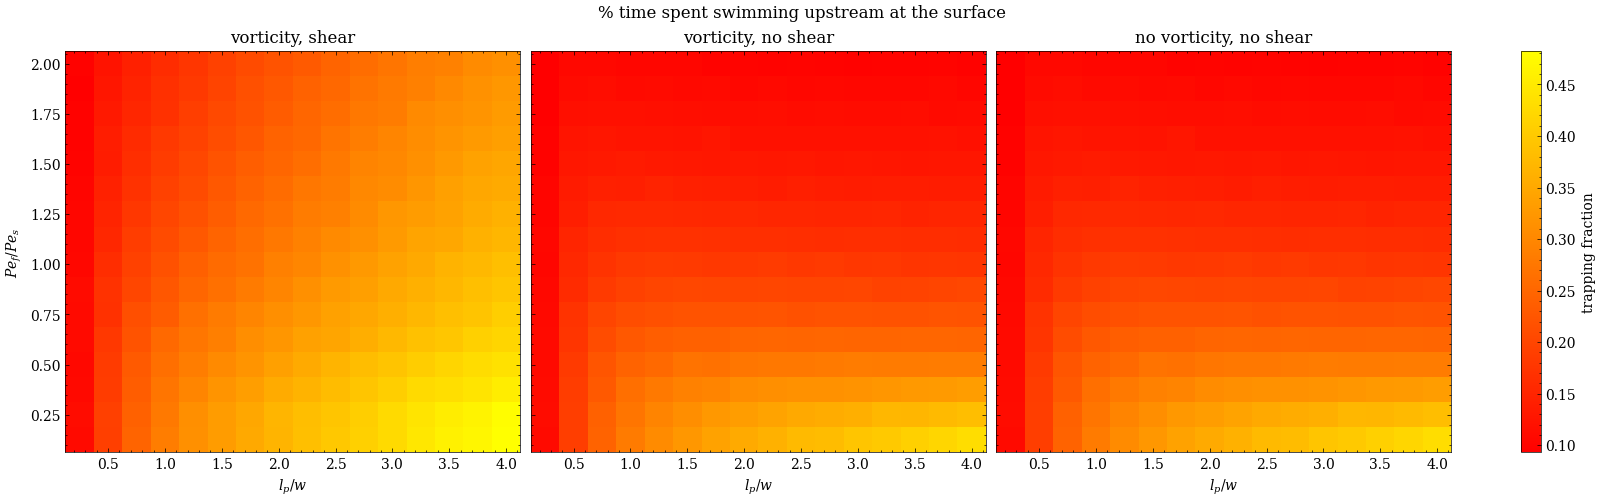
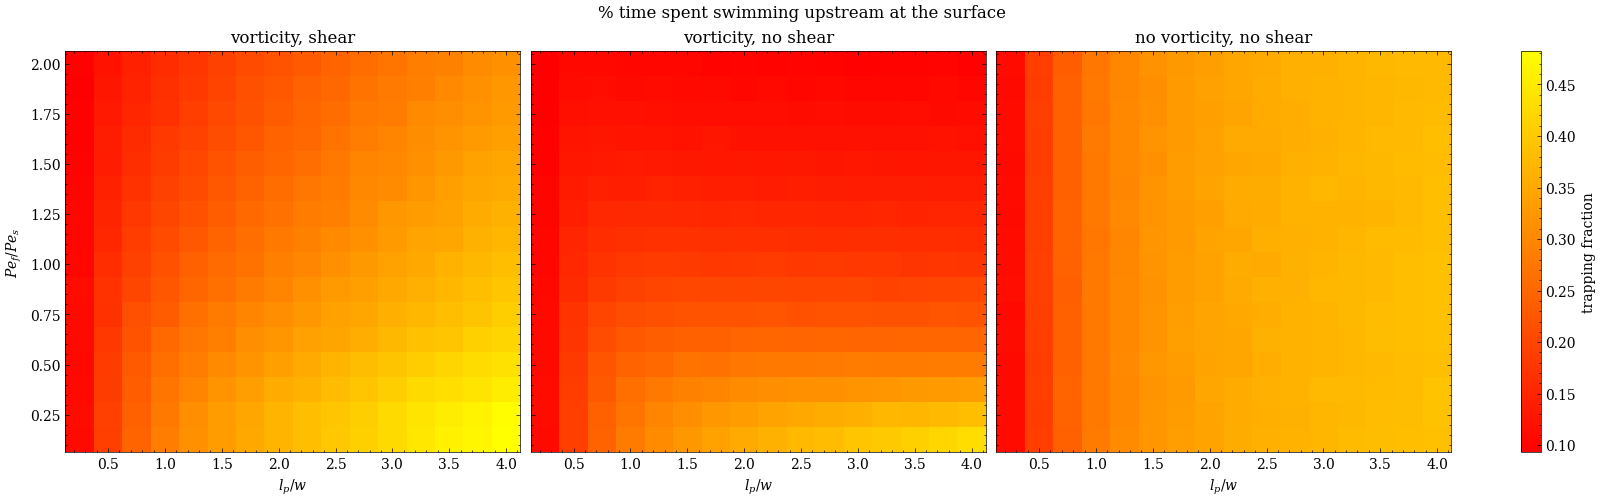
sync

Changed region(s): [[0.625, 0.0898, 0.9062, 0.8084], [0.875, 0.8383, 0.9062, 0.8982]]

diff --git a/abp_analysis.py b/abp_analysis.py
@@ -34,7 +34,7 @@ def phase_diagram(filename):
     cmap = colors.ListedColormap(colours)
     vmin = np.min(A)
     vmax = np.max(A)
-    boundaries = np.array([vmin, 1.2, 1.8, vmax])
+    boundaries = np.array([np.round(vmin, 2), 1.2, 1.8, np.round(vmax, 2)])
 
     # Plot MSD scaling exponent
     fig = plt.figure(figsize=[8, 6])
@@ -57,21 +57,14 @@ def phase_diagram(filename):
     plt.xlabel("$l_p/w$")
     plt.ylabel("$Pe_f/Pe_s$")
 
-    # Plot trapping fraction    
-    fig = plt.figure(figsize=[8, 6])
-    plt.title("% time spent swimming upstream at the surface")
-    plt.pcolormesh(X, Y, TF, cmap='viridis', shading='auto')
-    plt.colorbar(label='trapping fraction')
-    plt.xlabel("$l_p/w$")
-    plt.ylabel("$Pe_f/Pe_s$")
+    # Normalise divergent colormap for variance
+    norm_var = colors.TwoSlopeNorm(vmin=np.nanmin(B), vcenter=1, vmax=np.nanmax(B))
 
     # Plot variance of displacement
     fig = plt.figure(figsize=[8, 6])
     plt.title(r"Var($\Delta x$) scaling exponent")
-    plt.pcolormesh(X, Y, B, cmap=cmap, shading='auto')
-    cbar = plt.colorbar(label=r'$\beta$', boundaries=boundaries, spacing='proportional')
-    cbar.set_ticks([1, 1.2, 1.8, 2])
-    cbar.set_ticklabels([1, 1.2, 1.8, 2])
+    plt.pcolormesh(X, Y, B, cmap='bwr', shading='auto', norm=norm_var)
+    cbar = plt.colorbar(label=r'$\beta$', spacing='proportional')
     plt.xlabel("$l_p/w$")
     plt.ylabel("$Pe_f/Pe_s$")
 
@@ -212,7 +205,7 @@ def pd3_comparison(filename1, filename2, filename3):
     size_y3 = len(nPf_Ps3)
     A3 = a3.reshape(size_x3, size_y3).T
     B3 = b3.reshape(size_x3, size_y3).T
-    TF3 = trap_frac2.reshape(size_x3, size_y3).T
+    TF3 = trap_frac3.reshape(size_x3, size_y3).T
     VX3 = mean_vx3.reshape(size_x3, size_y3).T
     X3, Y3 = np.meshgrid(nlp_w3, nPf_Ps3)
 
@@ -250,18 +243,18 @@ def pd3_comparison(filename1, filename2, filename3):
     # Normalise divergent colormap for variance
     vmin = min(np.nanmin(B1), np.nanmin(B2), np.nanmin(B3))
     vmax = max(np.nanmax(B1), np.nanmax(B2), np.nanmax(B3))
-    norm_vx = colors.TwoSlopeNorm(vmin=vmin, vcenter=1, vmax=vmax)
+    norm_var = colors.TwoSlopeNorm(vmin=vmin, vcenter=1, vmax=vmax)
 
     # Plot comparison of variance scaling exponents    
     fig, axes = plt.subplots(1, 3, figsize=[21, 5], constrained_layout=True, sharey=True)
-    mesh1 = axes[0].pcolormesh(X1, Y1, B1, cmap='bwr', shading='auto', norm=norm_vx)
+    mesh1 = axes[0].pcolormesh(X1, Y1, B1, cmap='bwr', shading='auto', norm=norm_var)
     axes[0].set_title('vorticity, shear')
     axes[0].set_xlabel("$l_p/w$")
     axes[0].set_ylabel("$Pe_f/Pe_s$")
-    mesh2 = axes[1].pcolormesh(X2, Y2, B2, cmap='bwr', shading='auto', norm=norm_vx)
+    mesh2 = axes[1].pcolormesh(X2, Y2, B2, cmap='bwr', shading='auto', norm=norm_var)
     axes[1].set_title('vorticity, no shear')
     axes[1].set_xlabel("$l_p/w$")
-    mesh3 = axes[2].pcolormesh(X3, Y3, B3, cmap='bwr', shading='auto', norm=norm_vx)
+    mesh3 = axes[2].pcolormesh(X3, Y3, B3, cmap='bwr', shading='auto', norm=norm_var)
     axes[2].set_title('no vorticity, no shear')
     axes[2].set_xlabel("$l_p/w$")
     fig.suptitle(r'Var($\Delta x$) scaling exponent')

diff --git a/abp.py b/abp.py
@@ -69,7 +69,7 @@ def update(N, p, e, dt, Ps, D, Pf, G):
             e: particle orientations
             dt: timestep
             Ps: swim Peclet number
-            D: diffusion number
+            D: effective diffusivity
             Pf: flow Peclet number
             G: elongation factor
 